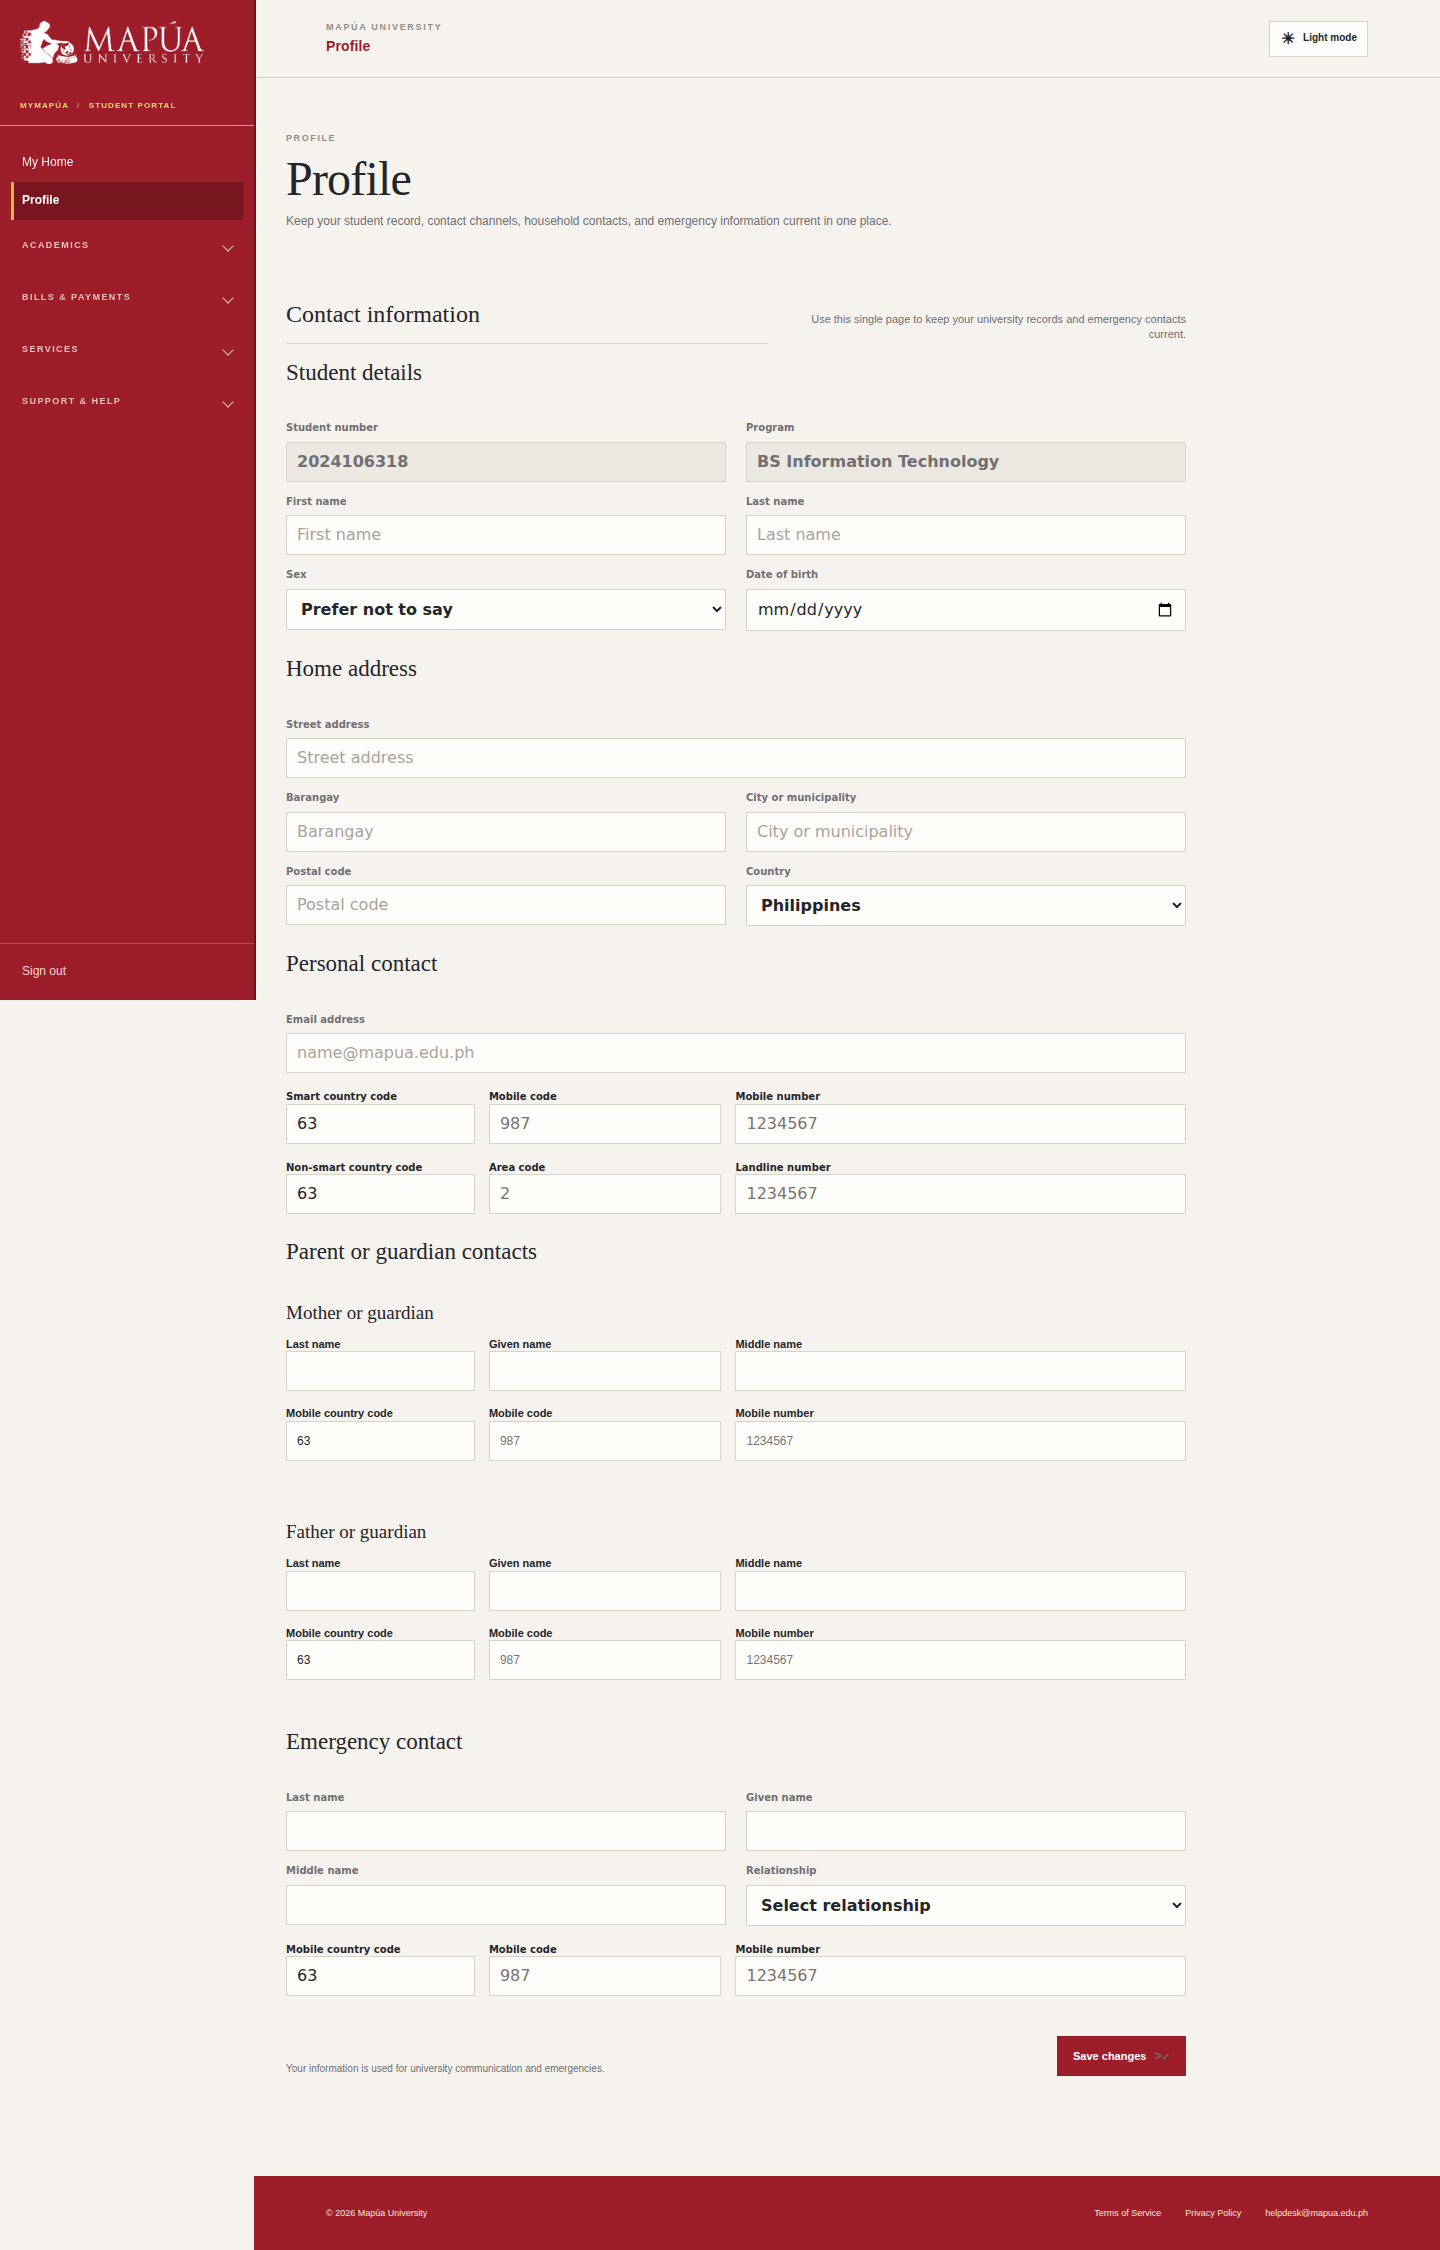
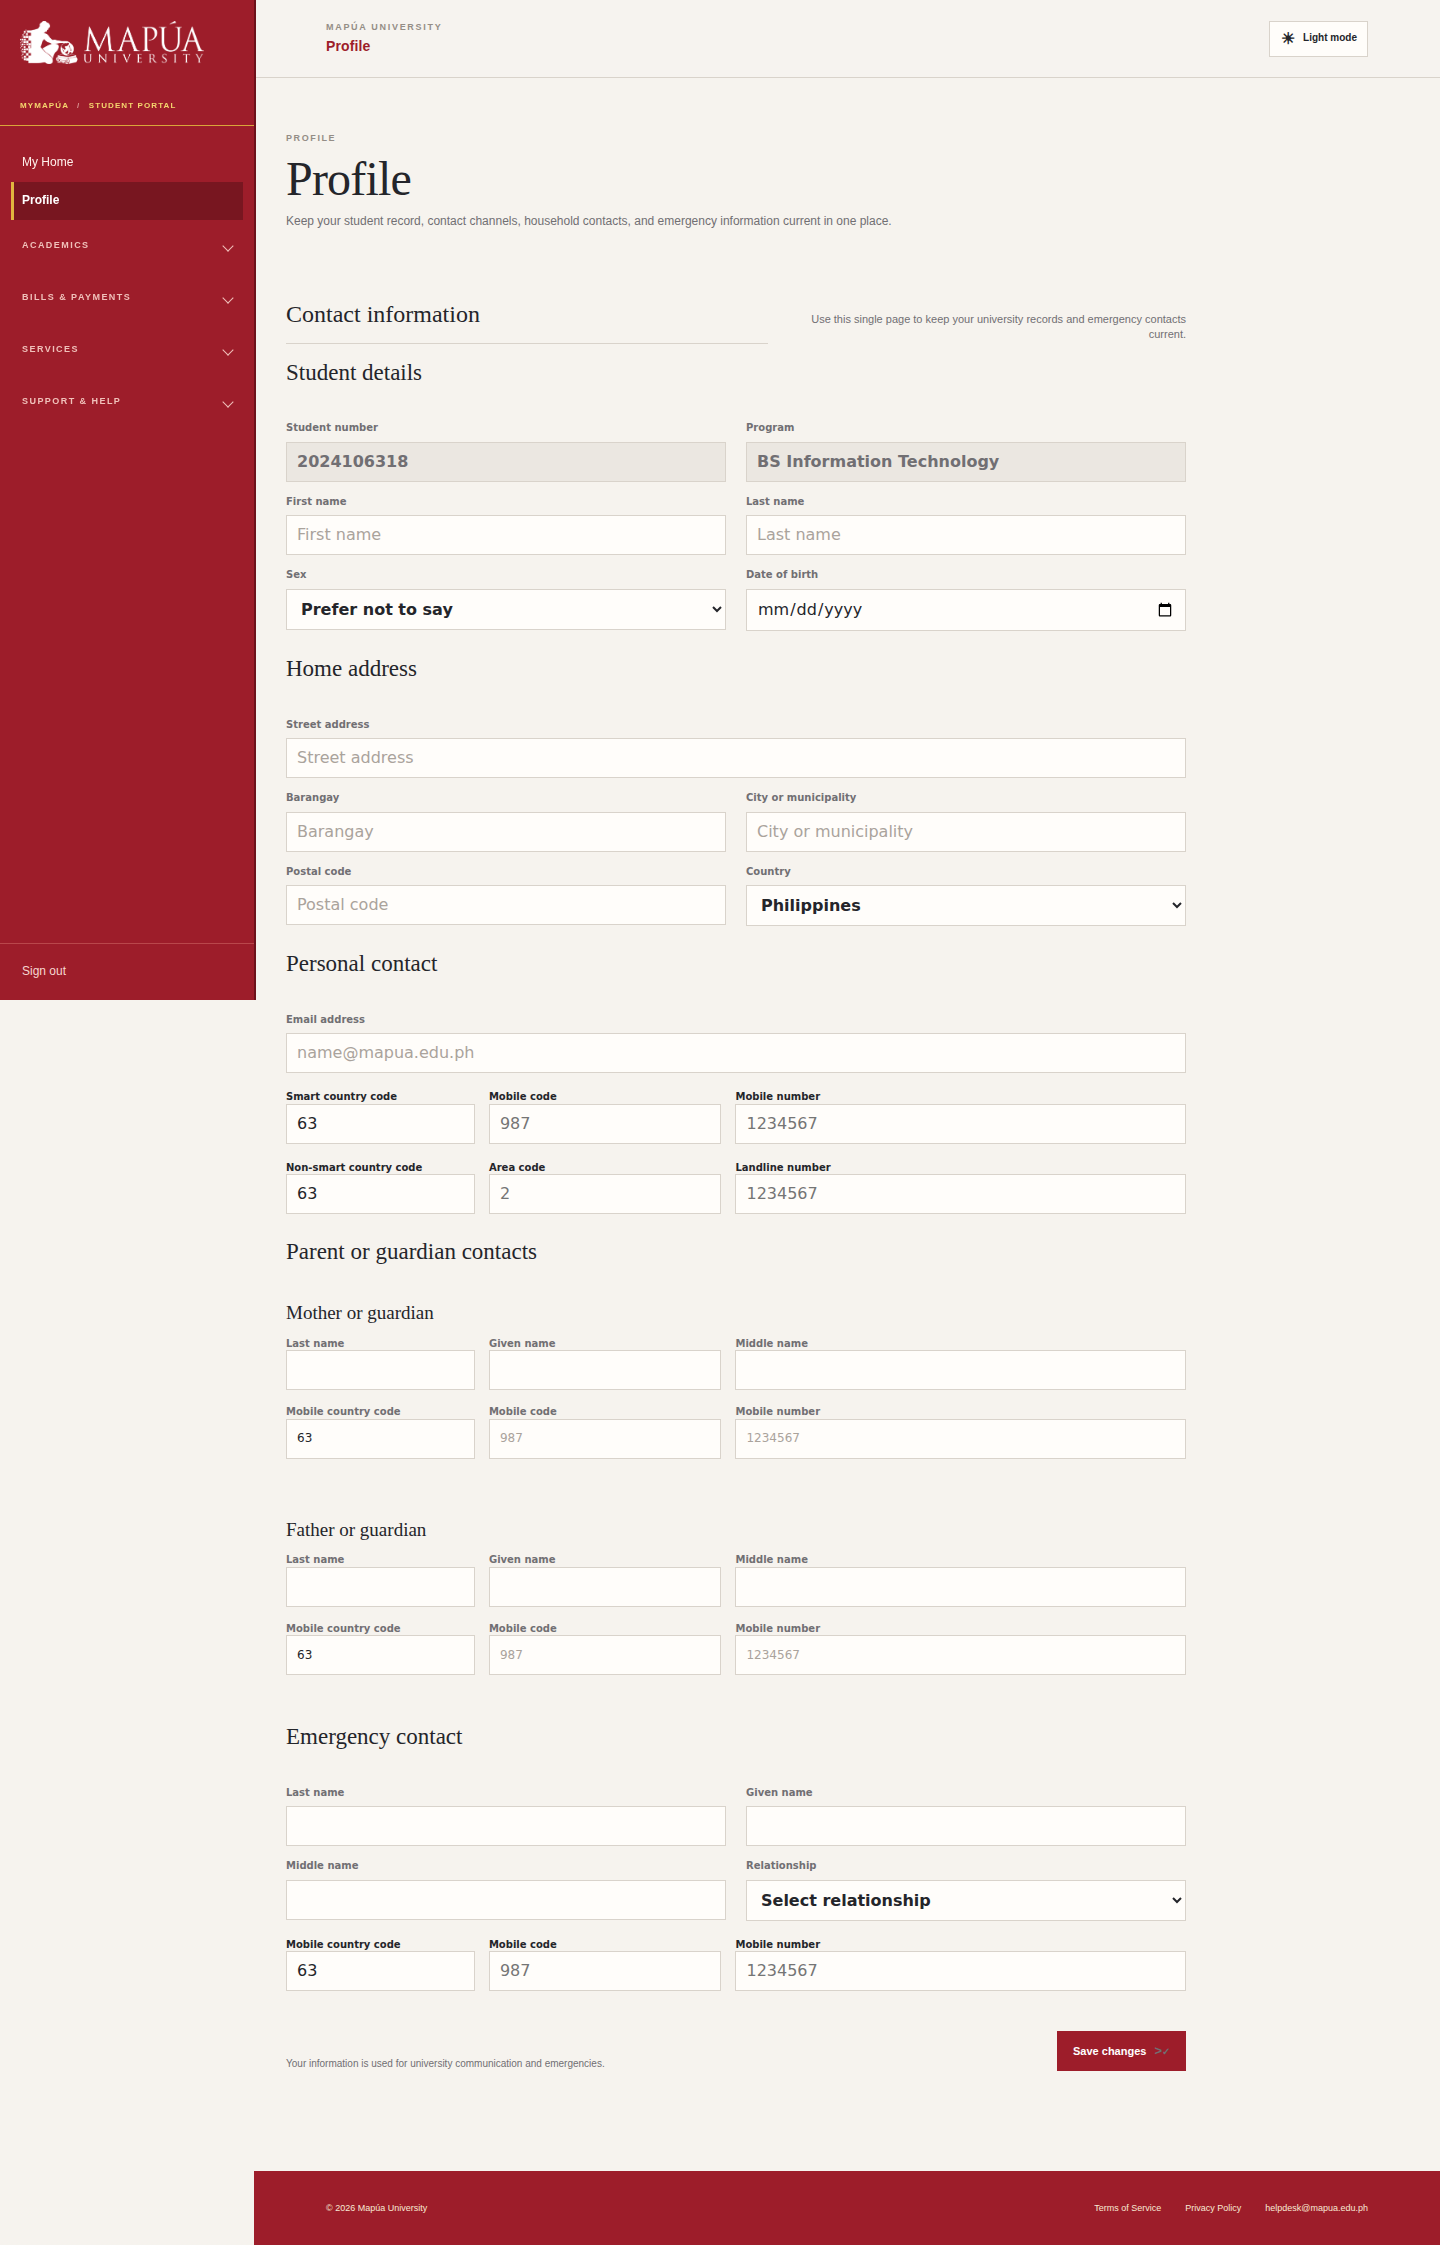
match guardian field styling

diff --git a/styles.css b/styles.css
@@ -3075,6 +3075,24 @@ html[data-theme="dark"] .quick-card:hover strong {
 		font-size: 17px;
 	}
 }
+
+.content .contact-form .contact-person label {
+	font-family: "Trebuchet MS", "DejaVu Sans", sans-serif !important;
+	color: var(--muted);
+	font-size: 10px;
+	font-weight: 700;
+}
+
+.content .contact-form .contact-person input,
+.content .contact-form .contact-person select {
+	font-family: "Trebuchet MS", "DejaVu Sans", sans-serif !important;
+	color: var(--ink);
+	background: var(--paper);
+}
+
+.content .contact-form .contact-person input::placeholder {
+	color: #aaa39c;
+}
 .content .payment-method-grid .payment-logo,
 html[data-theme="dark"] .content .payment-method-grid .payment-logo {
 	display: grid;
